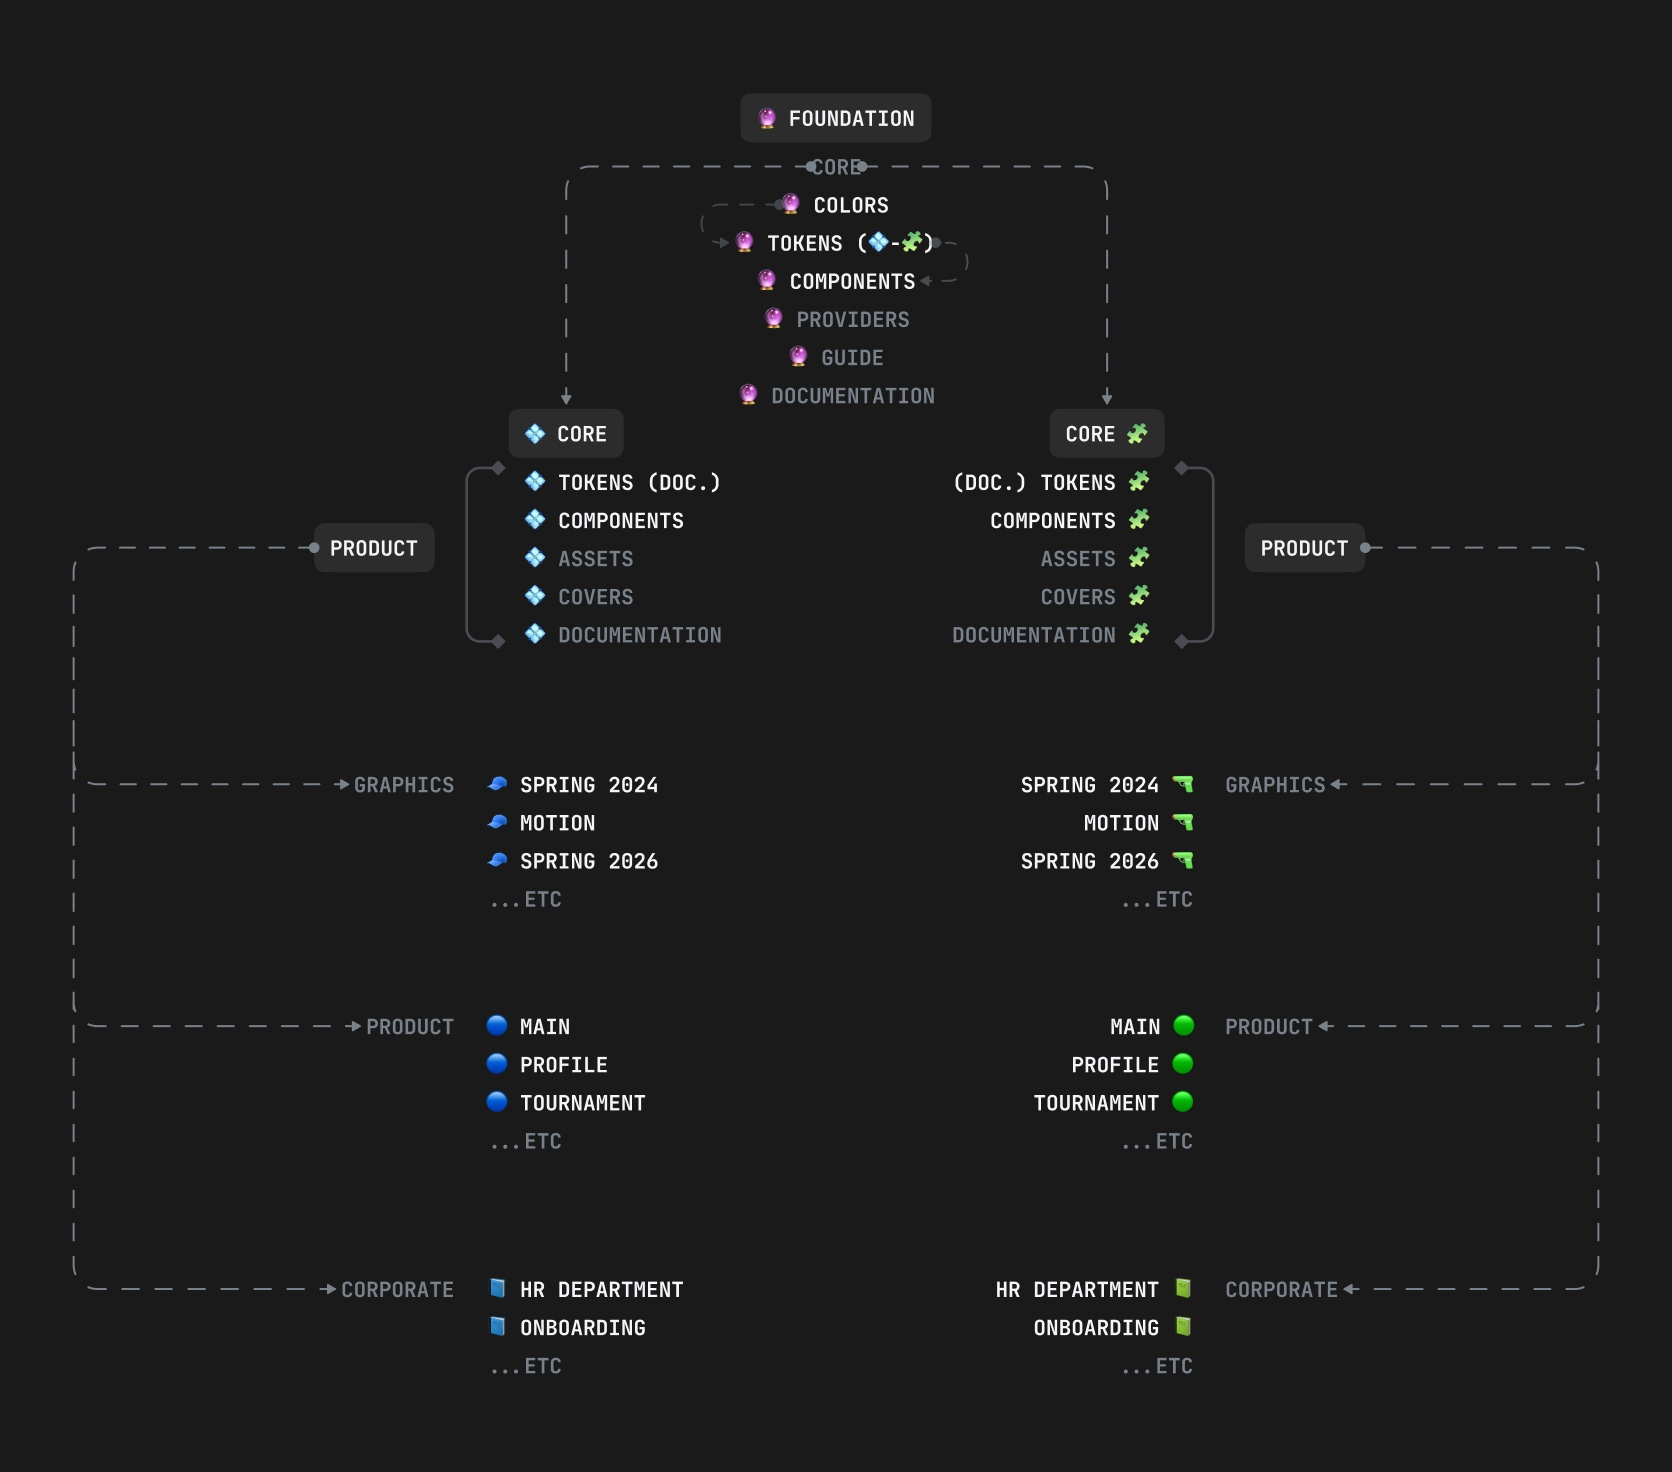
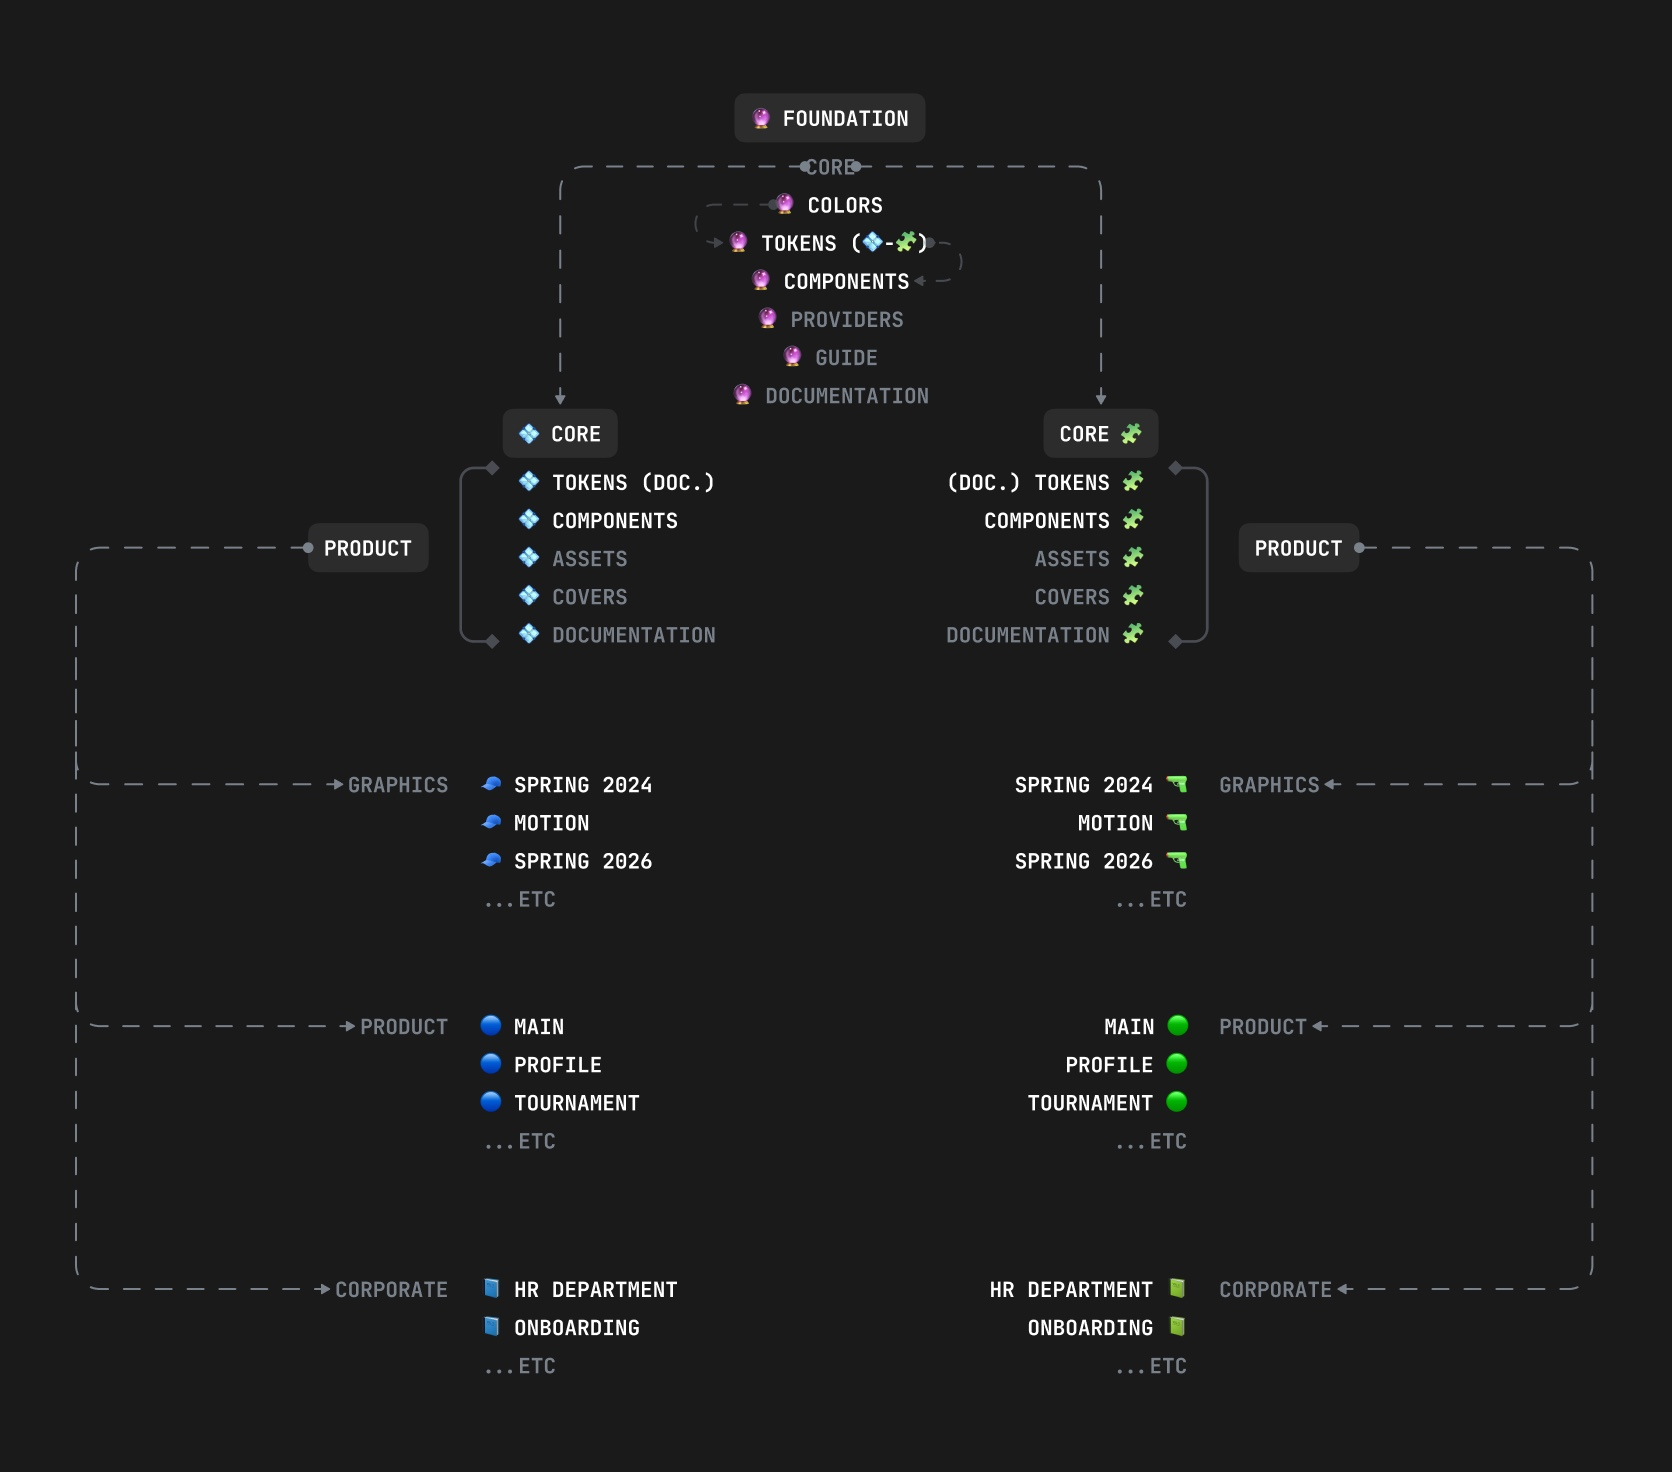
Обновить заголовки и описания кейсов и карточек, схема архитектуры из макета для обеих тем

diff --git a/src/cases.ts b/src/cases.ts
@@ -1,4 +1,4 @@
-// Тексты кейсов из макета (страница «Сайт», кадры «Кейс / Дизайн-система для трёх брендов» и «Кейс / Касса и история операций»).
+// Тексты кейсов из макета (страница «GitHub», кадры «Кейс / Дизайн-система для трёх брендов» и «Кейс / Касса и история операций»).
 
 export type CaseBlock =
   | { type: 'text'; text: string }
@@ -54,8 +54,8 @@ export const cases: CaseStudy[] = [
     id: '1win',
     cover: asset('cover-case-ds-v3.jpg'),
     tags: ['Design System', 'White-Label', 'Variables', 'Slots', 'RTL', 'Storybook', 'DesignOps'],
-    title: 'Одна дизайн-система для трёх брендов',
-    lead: 'Когда я проектировал White Label для трёх брендов, мне нужно было решить, что команда сможет переиспользовать при запуске нового продукта. Я начал с форм и навигации: в них часто повторялись одни и те же решения, даже когда оформление и сценарий различались.',
+    title: 'White Label для трёх брендов',
+    lead: 'Спроектировал общую библиотеку для трёх брендов. У каждого были свои оформление и сценарии. Вместе с дизайн-лидом я определил, где достаточно сменить тему и где нужен отдельный продуктовый блок.',
     meta: [
       { label: 'Роль', value: 'Ведущий дизайнер' },
       { label: 'Команда', value: '16 дизайнеров' },
@@ -169,8 +169,8 @@ export const cases: CaseStudy[] = [
     id: '1win-product',
     cover: asset('cover-case-product-v3.jpg'),
     tags: ['iGaming', 'B2C', 'B2B', 'Payments', 'Casino', 'Локализация', 'Web'],
-    title: 'Баланс не изменился. Платить снова?',
-    lead: 'Человек вернулся в кассу, а баланс прежний. Я хотел помочь ему понять, что произошло с первым платежом и стоит ли пробовать снова.',
+    title: 'Как понять, дошёл ли платёж',
+    lead: 'Спроектировал кассу с понятным статусом платежа. Если баланс прежний, важно понять, обрабатывается ли первый перевод или время оплаты истекло. Я разделил эти состояния и связал проверку статуса с историей операций.',
     meta: [
       { label: 'Роль', value: 'Ведущий дизайнер' },
       { label: 'Продукты', value: '3 White-Label' },

diff --git a/src/content.ts b/src/content.ts
@@ -61,16 +61,16 @@ export type Project = {
 export const projects: Project[] = [
   {
     id: 'p1',
-    title: 'Касса и история операций',
-    description: 'Как показать условия перевода и помочь пользователю проверить его статус.',
+    title: 'Как понять, дошёл ли платёж',
+    description: 'Спроектировал кассу с понятным статусом платежа.',
     tags: ['iGaming', 'B2C', 'B2B', 'Payments'],
     cover: asset('cover-card-product.jpg'),
     action: { kind: 'case', caseId: '1win-product' },
   },
   {
     id: 'p2',
-    title: 'Дизайн-система для трёх брендов',
-    description: 'Как общие компоненты и токены брендов помогают собрать один сценарий в разных темах.',
+    title: 'White Label для трёх брендов',
+    description: 'Спроектировал общую библиотеку для трёх брендов.',
     tags: ['Design System', 'White-Label', 'RTL', 'Storybook'],
     cover: asset('cover-card-ds-v3.jpg'),
     action: { kind: 'case', caseId: '1win' },
